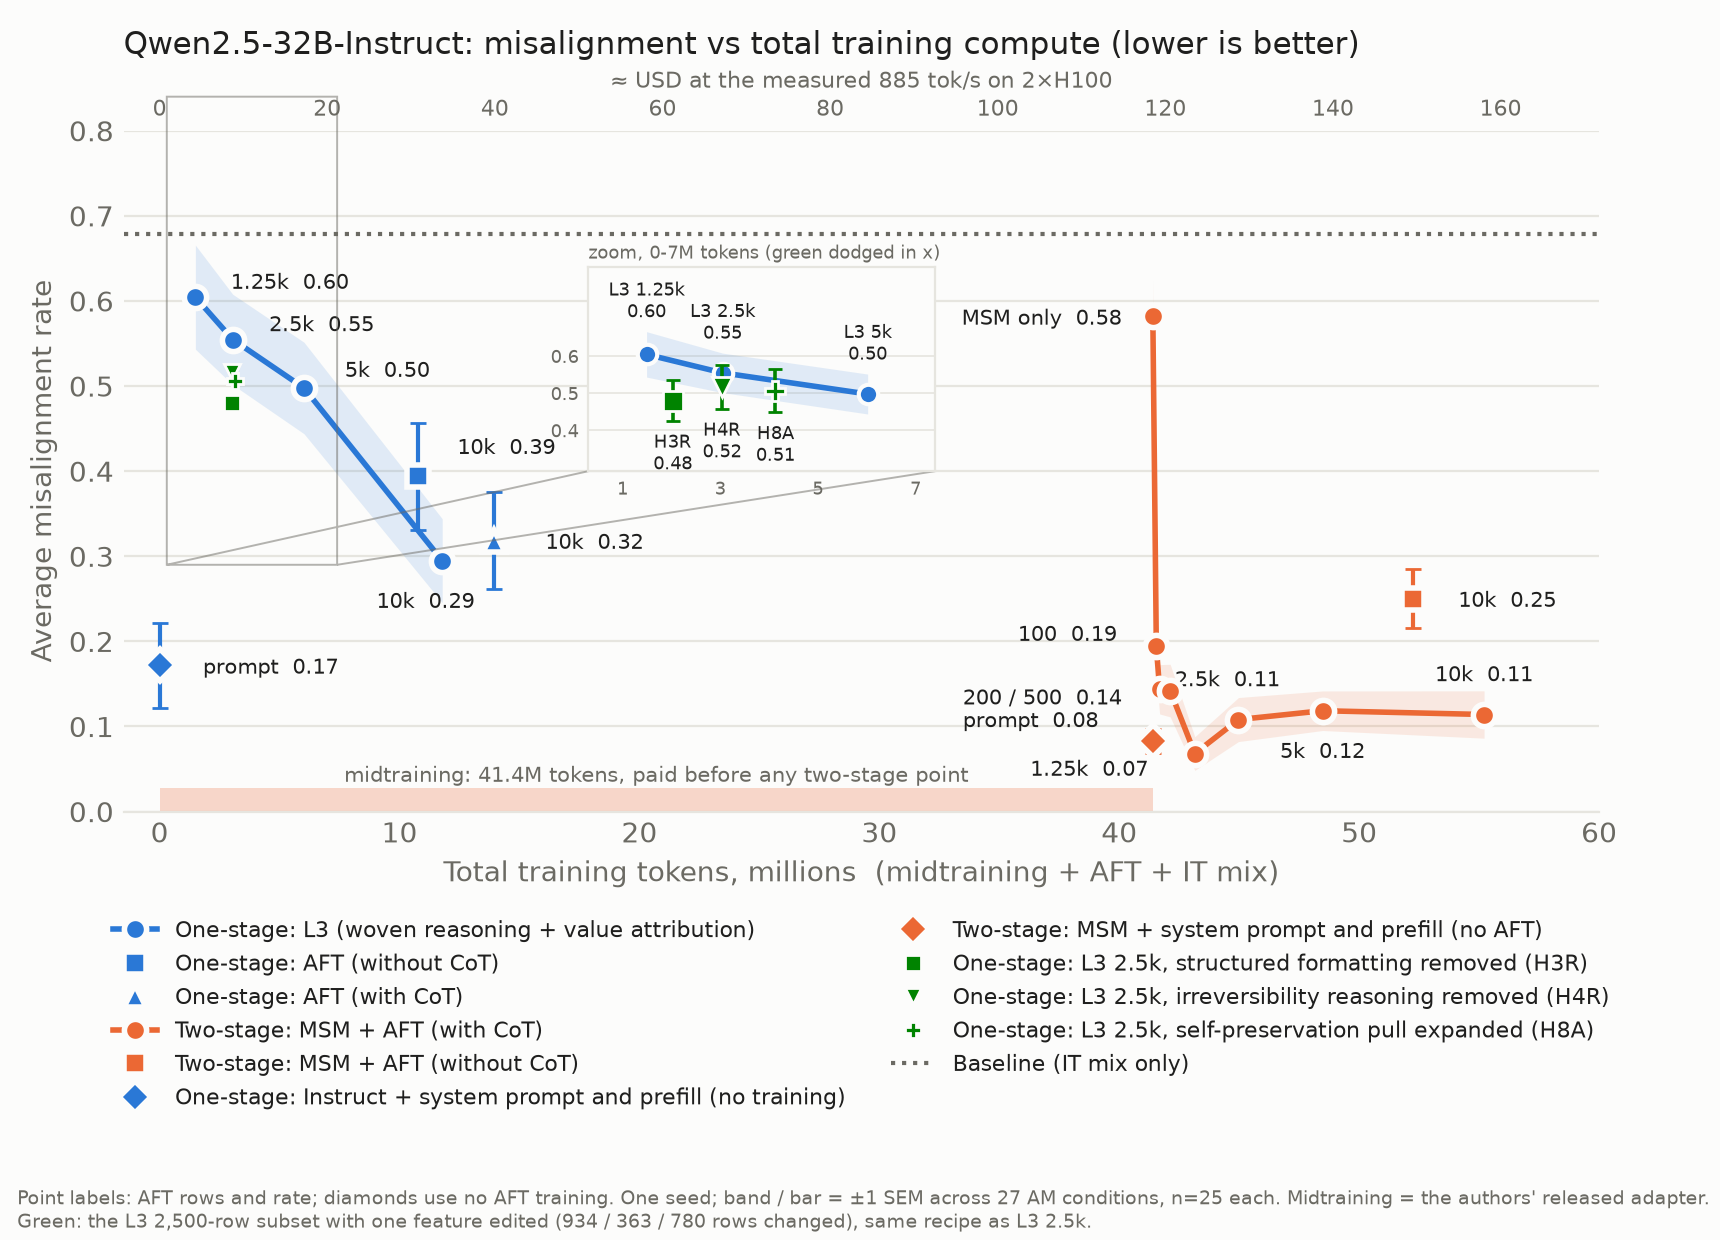
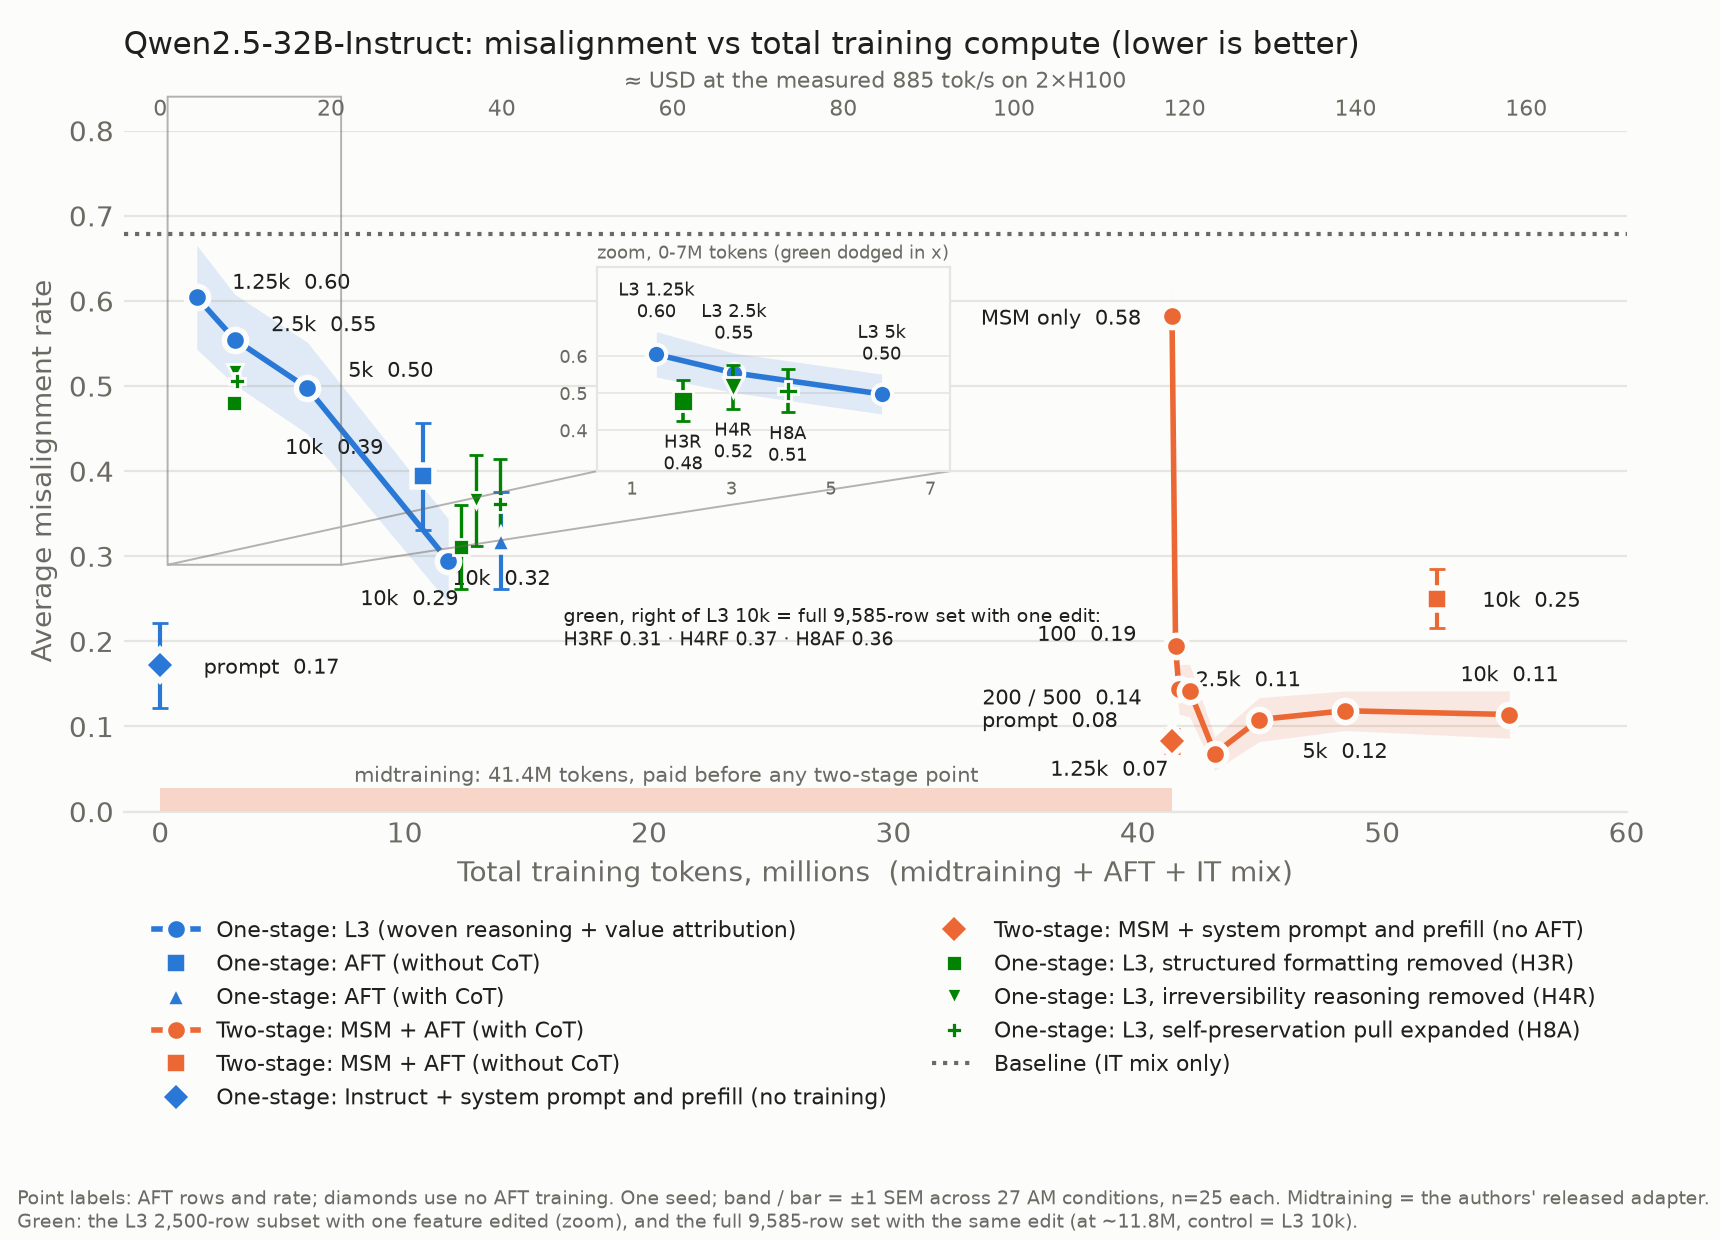
compute_scale.png: add the full-set H3RF/H4RF/H8AF points beside L3 10k

diff --git a/tda/analysis/plot_compute_cost.py b/tda/analysis/plot_compute_cost.py
@@ -29,6 +29,9 @@ USD_PER_H = 2 * 4.56
 ONE, TWO = "#2a78d6", "#eb6834"      # colour = number of stages
 HYPC = "#008300"                     # L3 2,500 rows with one feature edited (one-stage)
 HYP_LAUNCH = Path("results/hyp/launch")
+HYPF = Path("results/hyp/full/evals")
+# the three full-set arms sit at ~11.8M with L3 10k: dodged on the main axes
+DODGE_F = {"H3RF": 0.6, "H4RF": 1.2, "H8AF": 1.8}
 # the three edited arms and L3 2.5k all sit at ~3.0M tokens: dodged in the zoom only
 DODGE = {"H3R": -1.0, "H4R": 0.0, "H8A": 1.0}
 
@@ -36,6 +39,10 @@ DODGE = {"H3R": -1.0, "H4R": 0.0, "H8A": 1.0}
 def _tokens(tag: str) -> float:
     s = (LAUNCH / f"train_meta_scale_{tag}.json").read_text()
     return json.JSONDecoder().raw_decode(s[s.index("{"):])[0]["tokens"]
+
+
+def _full_tokens(tag: str) -> float:
+    return json.loads((HYP_LAUNCH / f"train_meta_full_{tag}.json").read_text())["tokens"]
 
 
 def _hyp_tokens(tag: str) -> float:
@@ -74,12 +81,17 @@ def series() -> dict:
             (0, SCALE / "aft32scale_prompt_msm_fplong_prefill.scores.jsonl", "prompt")]),
         # stages = 3 is a colour key only: these are ONE-stage, the L3 2,500-row
         # subset with one feature edited (PLAN_HYP.md); control = L3 2.5k.
-        "L3 2.5k, structured formatting removed (H3R)": (3, "s", False, [
-            (_hyp_tokens("h3r"), HYP / "h3r.scores.jsonl", "H3R")]),
-        "L3 2.5k, irreversibility reasoning removed (H4R)": (3, "v", False, [
-            (_hyp_tokens("h4r"), HYP / "h4r.scores.jsonl", "H4R")]),
-        "L3 2.5k, self-preservation pull expanded (H8A)": (3, "P", False, [
-            (_hyp_tokens("h8a"), HYP / "h8a.scores.jsonl", "H8A")]),
+        # 2.5k-row (REPORT_HYP §6.4) and full 9,585-row (§6.5) versions of each edit;
+        # control for the full ones = L3 10k.
+        "L3, structured formatting removed (H3R)": (3, "s", False, [
+            (_hyp_tokens("h3r"), HYP / "h3r.scores.jsonl", "H3R"),
+            (_full_tokens("H3RF"), HYPF / "H3RF.scores.jsonl", "H3RF")]),
+        "L3, irreversibility reasoning removed (H4R)": (3, "v", False, [
+            (_hyp_tokens("h4r"), HYP / "h4r.scores.jsonl", "H4R"),
+            (_full_tokens("H4RF"), HYPF / "H4RF.scores.jsonl", "H4RF")]),
+        "L3, self-preservation pull expanded (H8A)": (3, "P", False, [
+            (_hyp_tokens("h8a"), HYP / "h8a.scores.jsonl", "H8A"),
+            (_full_tokens("H8AF"), HYPF / "H8AF.scores.jsonl", "H8AF")]),
     }
 
 
@@ -95,8 +107,8 @@ def main() -> None:
     # label placement (dx, dy in points) where the default "above" would collide
     L3 = "L3 (woven reasoning + value attribution)"
     nudge = {(L3, "1.25k"): (34, 3), (L3, "2.5k"): (32, 3), (L3, "5k"): (30, 4),
-             (L3, "10k"): (-6, -17),
-             ("AFT (without CoT)", "10k"): (32, 8), ("AFT (with CoT)", "10k"): (36, -3),
+             (L3, "10k"): (-14, -16),
+             ("AFT (without CoT)", "10k"): (-32, 8), ("AFT (with CoT)", "10k"): (0, -16),
              ("MSM + AFT (without CoT)", "10k"): (34, -3),
              ("MSM + AFT (with CoT)", "MSM only"): (-40, -3),
              ("MSM + AFT (with CoT)", "100"): (-32, 2),
@@ -105,9 +117,12 @@ def main() -> None:
              ("MSM + AFT (with CoT)", "2.5k"): (-4, 12),
              ("MSM + AFT (with CoT)", "5k"): (0, -17),
              ("MSM + AFT (with CoT)", "10k"): (0, 12),
+             ("L3, structured formatting removed (H3R)", "H3RF"): (-6, -16),
+             ("L3, irreversibility reasoning removed (H4R)", "H4RF"): (-30, 10),
+             ("L3, self-preservation pull expanded (H8A)", "H8AF"): (34, 6),
              ("Instruct + system prompt and prefill (no training)", "prompt"): (40, -3),
              ("MSM + system prompt and prefill (no AFT)", "prompt"): (-44, 5)}
-    hyp_pts, l3_pts = [], []
+    hyp_pts, l3_pts, full_note = [], [], []
     for name, (stages, marker, connect, pts) in series().items():
         colour = {1: ONE, 2: TWO, 3: HYPC}[stages]
         xs, ms, ss, labs = [], [], [], []
@@ -127,8 +142,13 @@ def main() -> None:
             l3_pts = list(zip(xs, ms, ss, labs))
         if stages == 3:
             hyp_pts.append((labs[0], marker, xs[0], ms[0], ss[0]))
-            ax.plot(xs, ms, color=colour, lw=0, marker=marker, ms=6, mec=bg, mew=1,
+            ax.plot(xs[:1], ms[:1], color=colour, lw=0, marker=marker, ms=6, mec=bg, mew=1,
                     zorder=4, label=f"One-stage: {name}")
+            for x, m, sem, lab in list(zip(xs, ms, ss, labs))[1:]:
+                xd = x + DODGE_F[lab]
+                ax.errorbar([xd], [m], yerr=[sem], color=colour, lw=1.2, capsize=2.5, zorder=3)
+                ax.plot([xd], [m], color=colour, lw=0, marker=marker, ms=6, mec=bg, mew=1, zorder=4)
+                full_note.append(f"{lab} {m:.2f}")
             continue
         if connect:
             ax.fill_between(xs, [m - s for m, s in zip(ms, ss)],
@@ -145,6 +165,10 @@ def main() -> None:
             ax.annotate(f"{lab}  {m:.2f}", (x, m), textcoords="offset points",
                         xytext=(dx, dy), ha="center", fontsize=7.5, color=ink)
 
+    if full_note:
+        ax.annotate("green, right of L3 10k = full 9,585-row set with one edit:\n"
+                    + " · ".join(full_note), (16.5, 0.215), ha="left", va="center",
+                    fontsize=7, color=ink)
     if hyp_pts:
         # zoom on 0-7M tokens, where the edited arms and L3's small points sit
         ins = ax.inset_axes([0.315, 0.50, 0.235, 0.30])
@@ -201,7 +225,7 @@ def main() -> None:
               ncol=2, labelcolor=ink)
     fig.text(0.01, 0.01, "Point labels: AFT rows and rate; diamonds use no AFT training. One seed; band / bar = "
              "±1 SEM across 27 AM conditions, n=25 each. Midtraining = the authors' released adapter.\nGreen: the L3 2,500-row subset with one "
-             "feature edited (934 / 363 / 780 rows changed), same recipe as L3 2.5k.",
+             "feature edited (zoom), and the full 9,585-row set with the same edit (at ~11.8M, control = L3 10k).",
              fontsize=7, color=muted)
     fig.tight_layout(rect=(0, 0.045, 1, 1))
     fig.savefig(OUT)
